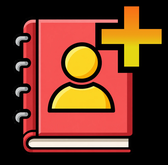
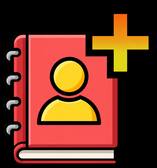
客先登録の絵を作り直し版に差し替え
Claude-Session: https://claude.ai/code/session_01SgjtmfdbwY5jXVXTNgUKFA

diff --git a/index.html b/index.html
@@ -393,7 +393,7 @@ nav, nav#nav{overflow:visible; padding-top:2px;}
 
 <!-- 版の表示：スマホに届いている中身がどれかを、お互いに確認するための小さな印。
      不要になったらこの1行と #nnver の指定を消してください。 -->
-<div id="nnver">v2026-09-25 u</div>
+<div id="nnver">v2026-09-25 v</div>
 <script>
 /* ============ 実機の計測結果を表示（原因調査用・2026-07-28） ============
    数字の意味（単位はミリ秒）
@@ -744,7 +744,7 @@ nav, nav#nav{justify-content:center !important; padding-left:6px !important; pad
    古いものが出続けることがある。そこで ver.txt（数バイト）だけを
    毎回見に行き、公開版と違っていたら保存分を捨てて1回だけ読み直す。
    ★公開のたびに ver.txt と、下の NN_VER を同じ文字に更新すること。 */
-const NN_VER='2026-09-25u';
+const NN_VER='2026-09-25v';
 /* ============ 表示にかかった時間の記録（原因調査用・2026-07-28） ============
    スマホの実機でどこに時間がかかっているかを数字で出す。
    ・net  ＝ページを要求してから最初の返事が来るまで（通信の待ち）

diff --git a/camera.html b/camera.html
@@ -1271,7 +1271,7 @@ nav, nav#nav{justify-content:center !important; padding-left:6px !important; pad
    古いものが出続けることがある。そこで ver.txt（数バイト）だけを
    毎回見に行き、公開版と違っていたら保存分を捨てて1回だけ読み直す。
    ★公開のたびに ver.txt と、下の NN_VER を同じ文字に更新すること。 */
-const NN_VER='2026-09-25u';
+const NN_VER='2026-09-25v';
 /* ============ 表示にかかった時間の記録（原因調査用・2026-07-28） ============
    スマホの実機でどこに時間がかかっているかを数字で出す。
    ・net  ＝ページを要求してから最初の返事が来るまで（通信の待ち）

diff --git a/genba_map_v36.html b/genba_map_v36.html
@@ -5019,7 +5019,7 @@ nav, nav#nav{justify-content:center !important; padding-left:6px !important; pad
    古いものが出続けることがある。そこで ver.txt（数バイト）だけを
    毎回見に行き、公開版と違っていたら保存分を捨てて1回だけ読み直す。
    ★公開のたびに ver.txt と、下の NN_VER を同じ文字に更新すること。 */
-const NN_VER='2026-09-25u';
+const NN_VER='2026-09-25v';
 /* ============ 表示にかかった時間の記録（原因調査用・2026-07-28） ============
    スマホの実機でどこに時間がかかっているかを数字で出す。
    ・net  ＝ページを要求してから最初の返事が来るまで（通信の待ち）

diff --git a/hacchu.html b/hacchu.html
@@ -1091,7 +1091,7 @@ nav, nav#nav{justify-content:center !important; padding-left:6px !important; pad
    古いものが出続けることがある。そこで ver.txt（数バイト）だけを
    毎回見に行き、公開版と違っていたら保存分を捨てて1回だけ読み直す。
    ★公開のたびに ver.txt と、下の NN_VER を同じ文字に更新すること。 */
-const NN_VER='2026-09-25u';
+const NN_VER='2026-09-25v';
 /* ============ 表示にかかった時間の記録（原因調査用・2026-07-28） ============
    スマホの実機でどこに時間がかかっているかを数字で出す。
    ・net  ＝ページを要求してから最初の返事が来るまで（通信の待ち）

diff --git a/kirokucho_demo.html b/kirokucho_demo.html
@@ -4832,7 +4832,7 @@ nav, nav#nav{justify-content:center !important; padding-left:6px !important; pad
    古いものが出続けることがある。そこで ver.txt（数バイト）だけを
    毎回見に行き、公開版と違っていたら保存分を捨てて1回だけ読み直す。
    ★公開のたびに ver.txt と、下の NN_VER を同じ文字に更新すること。 */
-const NN_VER='2026-09-25u';
+const NN_VER='2026-09-25v';
 /* ============ 表示にかかった時間の記録（原因調査用・2026-07-28） ============
    スマホの実機でどこに時間がかかっているかを数字で出す。
    ・net  ＝ページを要求してから最初の返事が来るまで（通信の待ち）

diff --git a/kokkosho.html b/kokkosho.html
@@ -2447,7 +2447,7 @@ nav, nav#nav{justify-content:center !important; padding-left:6px !important; pad
    古いものが出続けることがある。そこで ver.txt（数バイト）だけを
    毎回見に行き、公開版と違っていたら保存分を捨てて1回だけ読み直す。
    ★公開のたびに ver.txt と、下の NN_VER を同じ文字に更新すること。 */
-const NN_VER='2026-09-25u';
+const NN_VER='2026-09-25v';
 /* ============ 表示にかかった時間の記録（原因調査用・2026-07-28） ============
    スマホの実機でどこに時間がかかっているかを数字で出す。
    ・net  ＝ページを要求してから最初の返事が来るまで（通信の待ち）

diff --git a/library.html b/library.html
@@ -1170,7 +1170,7 @@ nav, nav#nav{justify-content:center !important; padding-left:6px !important; pad
    古いものが出続けることがある。そこで ver.txt（数バイト）だけを
    毎回見に行き、公開版と違っていたら保存分を捨てて1回だけ読み直す。
    ★公開のたびに ver.txt と、下の NN_VER を同じ文字に更新すること。 */
-const NN_VER='2026-09-25u';
+const NN_VER='2026-09-25v';
 /* ============ 表示にかかった時間の記録（原因調査用・2026-07-28） ============
    スマホの実機でどこに時間がかかっているかを数字で出す。
    ・net  ＝ページを要求してから最初の返事が来るまで（通信の待ち）

diff --git a/shiyo_toroku.html b/shiyo_toroku.html
@@ -1665,7 +1665,7 @@ nav, nav#nav{justify-content:center !important; padding-left:6px !important; pad
    古いものが出続けることがある。そこで ver.txt（数バイト）だけを
    毎回見に行き、公開版と違っていたら保存分を捨てて1回だけ読み直す。
    ★公開のたびに ver.txt と、下の NN_VER を同じ文字に更新すること。 */
-const NN_VER='2026-09-25u';
+const NN_VER='2026-09-25v';
 /* ============ 表示にかかった時間の記録（原因調査用・2026-07-28） ============
    スマホの実機でどこに時間がかかっているかを数字で出す。
    ・net  ＝ページを要求してから最初の返事が来るまで（通信の待ち）

diff --git a/yougo.html b/yougo.html
@@ -1406,7 +1406,7 @@ nav, nav#nav{justify-content:center !important; padding-left:6px !important; pad
    古いものが出続けることがある。そこで ver.txt（数バイト）だけを
    毎回見に行き、公開版と違っていたら保存分を捨てて1回だけ読み直す。
    ★公開のたびに ver.txt と、下の NN_VER を同じ文字に更新すること。 */
-const NN_VER='2026-09-25u';
+const NN_VER='2026-09-25v';
 /* ============ 表示にかかった時間の記録（原因調査用・2026-07-28） ============
    スマホの実機でどこに時間がかかっているかを数字で出す。
    ・net  ＝ページを要求してから最初の返事が来るまで（通信の待ち）

diff --git a/zairyo_toroku.html b/zairyo_toroku.html
@@ -1538,7 +1538,7 @@ nav, nav#nav{justify-content:center !important; padding-left:6px !important; pad
    古いものが出続けることがある。そこで ver.txt（数バイト）だけを
    毎回見に行き、公開版と違っていたら保存分を捨てて1回だけ読み直す。
    ★公開のたびに ver.txt と、下の NN_VER を同じ文字に更新すること。 */
-const NN_VER='2026-09-25u';
+const NN_VER='2026-09-25v';
 /* ============ 表示にかかった時間の記録（原因調査用・2026-07-28） ============
    スマホの実機でどこに時間がかかっているかを数字で出す。
    ・net  ＝ページを要求してから最初の返事が来るまで（通信の待ち）

diff --git a/zumen_sekisan.html b/zumen_sekisan.html
@@ -6252,7 +6252,7 @@ nav, nav#nav{justify-content:center !important; padding-left:6px !important; pad
    古いものが出続けることがある。そこで ver.txt（数バイト）だけを
    毎回見に行き、公開版と違っていたら保存分を捨てて1回だけ読み直す。
    ★公開のたびに ver.txt と、下の NN_VER を同じ文字に更新すること。 */
-const NN_VER='2026-09-25u';
+const NN_VER='2026-09-25v';
 /* ============ 表示にかかった時間の記録（原因調査用・2026-07-28） ============
    スマホの実機でどこに時間がかかっているかを数字で出す。
    ・net  ＝ページを要求してから最初の返事が来るまで（通信の待ち）

diff --git a/sw.js b/sw.js
@@ -11,7 +11,7 @@
      ので、こちらの修正が確実に端末へ届く。
      ★ページを直したら、必ずこの番号を1つ上げること。
    ============================================================ */
-const CACHE = 'nn-cache-v591';
+const CACHE = 'nn-cache-v592';
 
 const ASSETS = [
   './compact_buttons.js',
